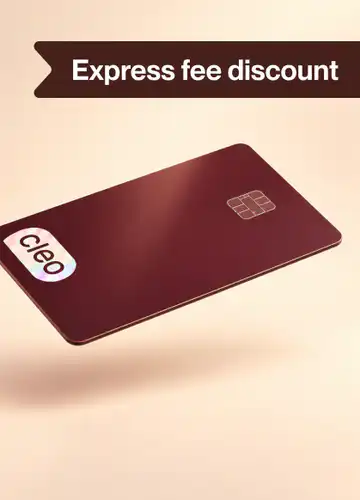
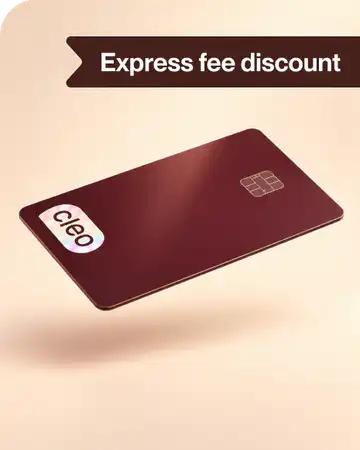
CARDC-641 Generate expressFeeDiscount1 from the full raw frame

diff --git a/scripts/generate-images.ts b/scripts/generate-images.ts
@@ -103,6 +103,7 @@ async function processCrop(
   originalHeight: number,
 ): Promise<void> {
   const cropSettings = cropSpecs[cropType];
+  const { width, height } = config.focalPoint?.crops?.[cropType]?.targetDimensions ?? cropSettings;
   const formattedCropType = cropType.replace(':', '-').toLowerCase();
 
   // Create a base instance with all extractions applied
@@ -111,8 +112,8 @@ async function processCrop(
   // Process all scale factors in parallel
   await Promise.all(
     scaleFactors.map(async ({ suffix, scale }) => {
-      const targetWidth = cropSettings.width * scale;
-      const targetHeight = cropSettings.height * scale;
+      const targetWidth = width * scale;
+      const targetHeight = height * scale;
       const outputFileName = `${baseName}_${formattedCropType}${suffix}.webp`;
       const outputPath = path.join(outputDir, outputFileName);
 

diff --git a/packages/photography/config/expressFeeDiscount1.ts b/packages/photography/config/expressFeeDiscount1.ts
@@ -9,9 +9,9 @@ const config: PhotographyConfig = {
         height: 582,
       },
       focalPoint: {
-        x: 255.5,
+        x: 232.5,
         y: 291,
-        normalizedX: 0.5495,
+        normalizedX: 0.5,
         normalizedY: 0.5,
       },
     },
@@ -19,13 +19,13 @@ const config: PhotographyConfig = {
       PORTRAIT_MEDIUM: {
         extractParams: {
           top: 0,
-          left: 46,
-          width: 419,
+          left: 0,
+          width: 465,
           height: 582,
         },
         targetDimensions: {
           width: 360,
-          height: 500,
+          height: 450,
         },
         zoom: 1,
       },
